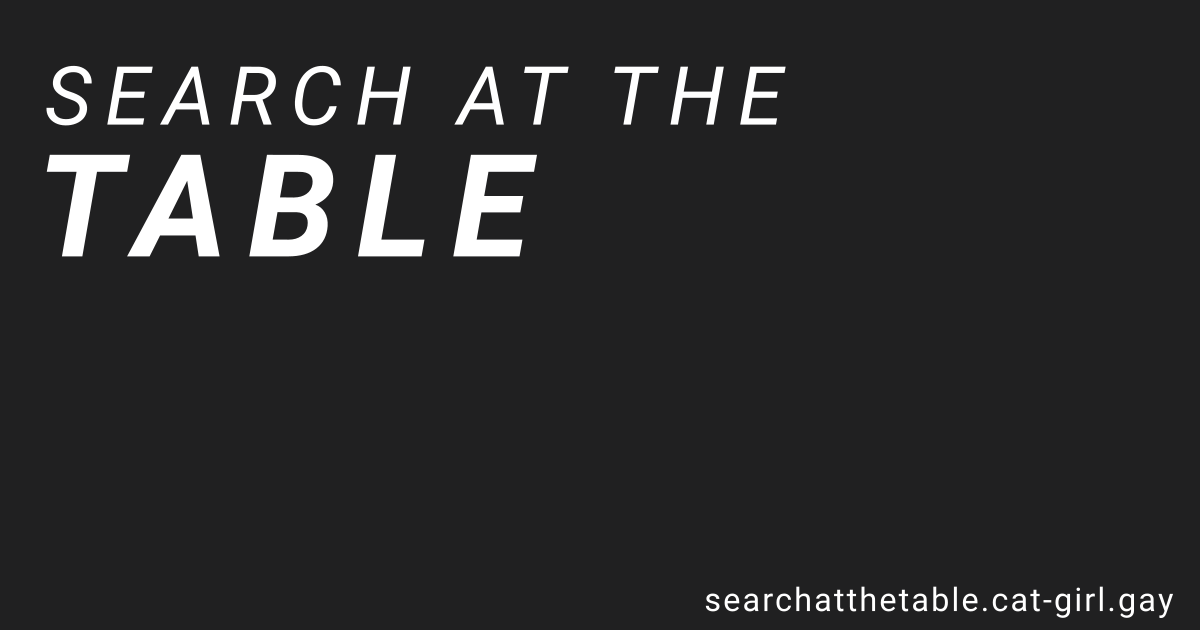
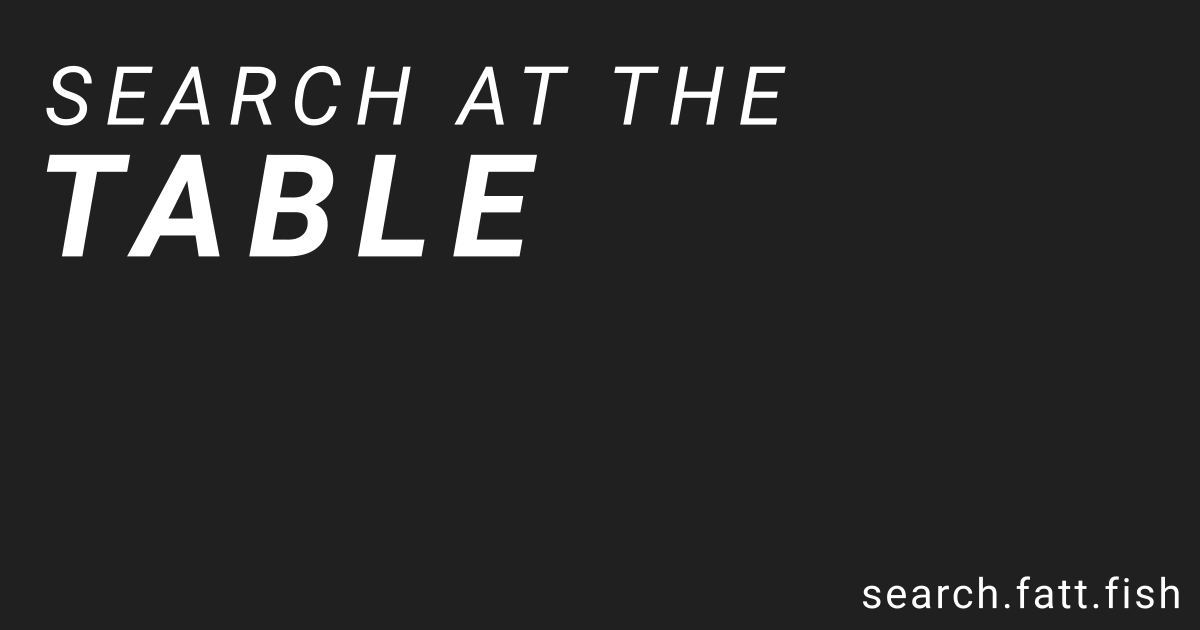
a funnier domain name

Changed region(s): [[0.5858, 0.9048, 0.9867, 0.9952]]

diff --git a/static/index.html b/static/index.html
@@ -9,11 +9,11 @@
       rel="stylesheet"
     />
     <link rel="icon" href="favicon.png" />
-    <meta property="og:image" content="https://curiosity.cat-girl.gay/cover.png" />
+    <meta property="og:image" content="https://search.fatt.fish/cover.png" />
     <meta property="og:title" content="Search at the Table" />
     <meta property="og:description" content="a search engine for actual-play podcast Friends at The Table!" />
     <meta property="og:type" content="website" />
-    <meta property="og:url" content="https://curiosity.cat-girl.gay" />
+    <meta property="og:url" content="https://search.fatt.fish" />
     <meta property="twitter:card" content="summary_large_image" />
     <meta property="twitter:creator" content="@sapphiclinguine" />
     <script type="module" crossorigin src="/assets/index-adf9ea68.js"></script>

diff --git a/frontend/index.html b/frontend/index.html
@@ -9,11 +9,11 @@
       rel="stylesheet"
     />
     <link rel="icon" href="favicon.png" />
-    <meta property="og:image" content="https://curiosity.cat-girl.gay/cover.png" />
+    <meta property="og:image" content="https://search.fatt.fish/cover.png" />
     <meta property="og:title" content="Search at the Table" />
     <meta property="og:description" content="a search engine for actual-play podcast Friends at The Table!" />
     <meta property="og:type" content="website" />
-    <meta property="og:url" content="https://curiosity.cat-girl.gay" />
+    <meta property="og:url" content="https://search.fatt.fish" />
     <meta property="twitter:card" content="summary_large_image" />
     <meta property="twitter:creator" content="@sapphiclinguine" />
   </head>

diff --git a/README.md b/README.md
@@ -1,5 +1,6 @@
 # curiosity!
 a search engine for f@tt
+available at [search.fatt.fish](https://search.fatt.fish)
 
 built with some of these things:
 - tantivy: search backend
